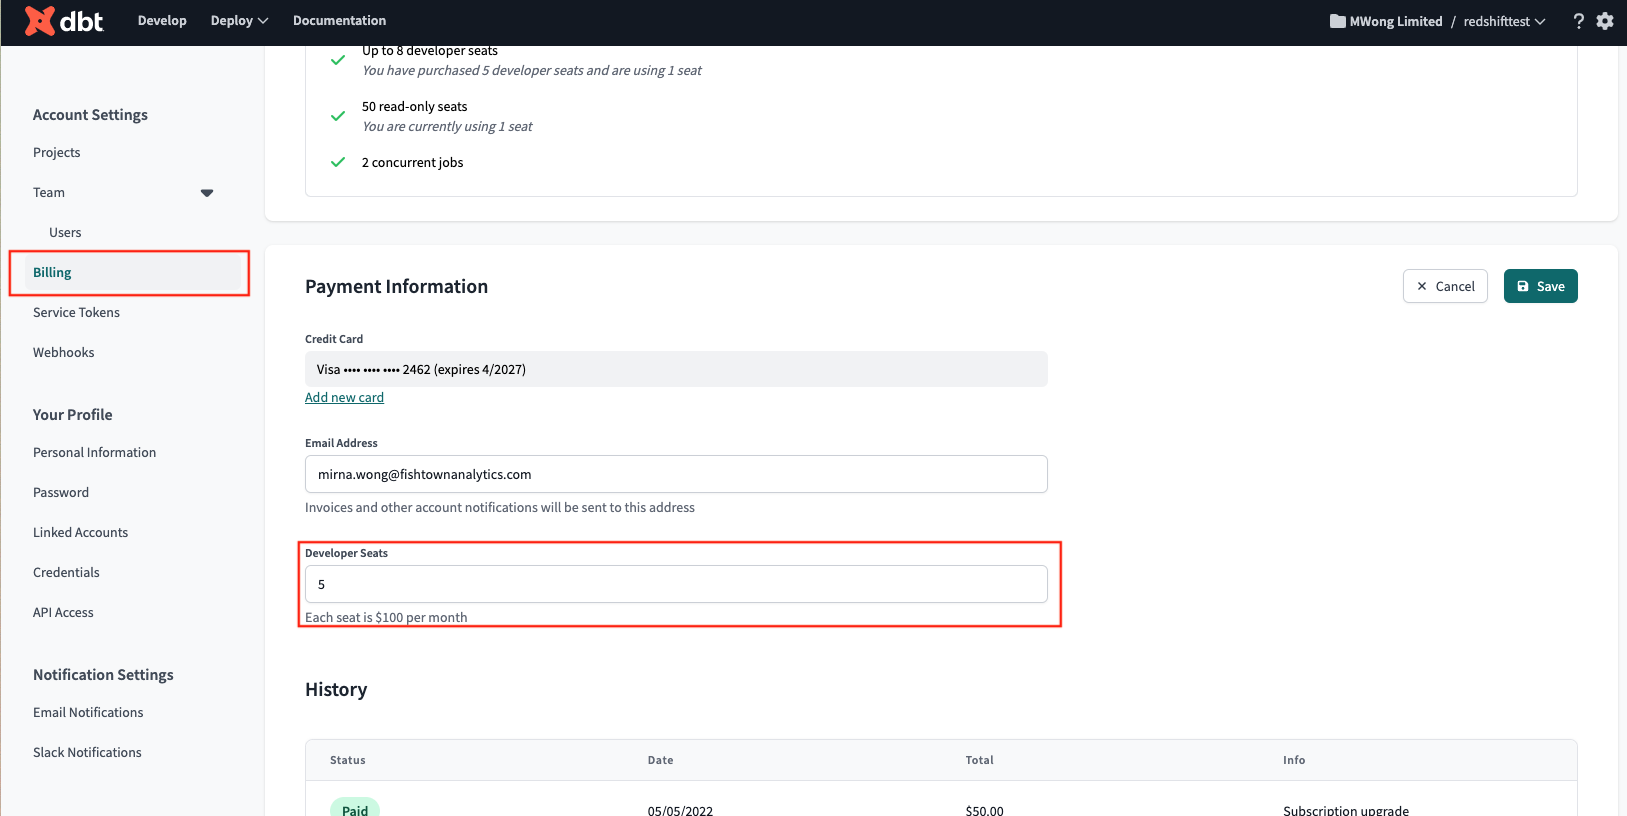
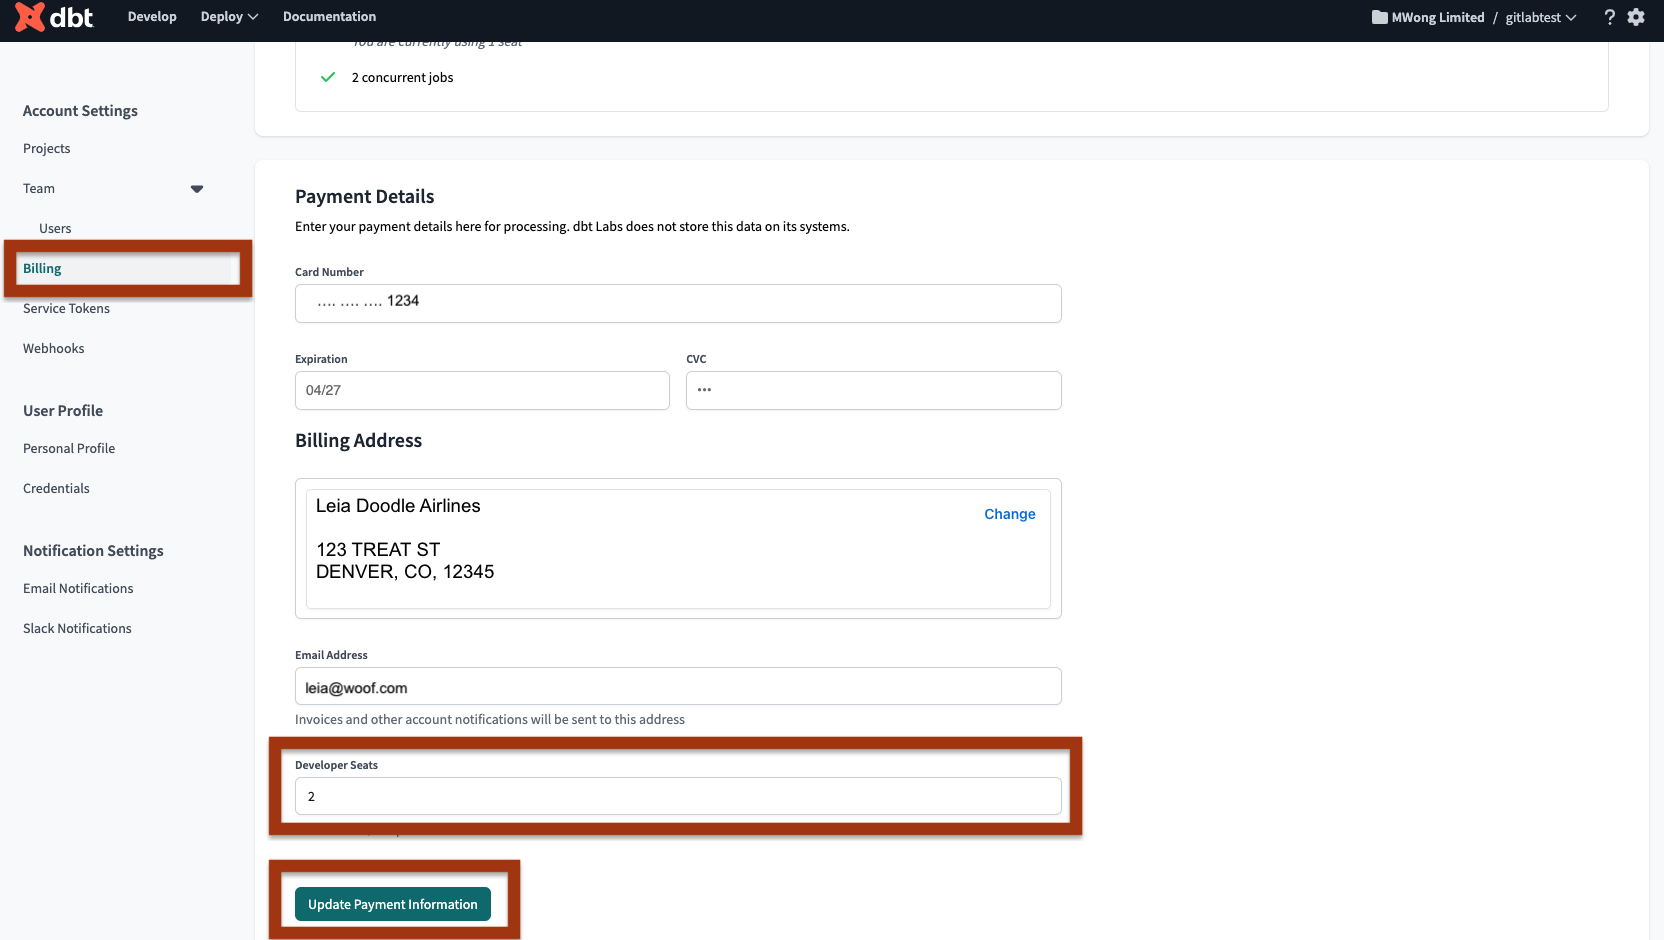
update screenshots

diff --git a/website/docs/faqs/Accounts/delete-users.md b/website/docs/faqs/Accounts/delete-users.md
@@ -10,19 +10,20 @@ To delete a user in dbt Cloud, you must be an account owner or have admin privil
 
 1. From dbt Cloud, click the gear icon at the top right and select **Account Settings**.
 
-<Lightbox src="/img/docs/dbt-cloud/Navigate To Account Settings.png" title="Navigate to account settings" />
+<Lightbox src="/img/docs/dbt-cloud/Navigate To Account Settings.png" width="85%"  title="Navigate to account settings" />
 
 2. In **Account Settings**, select **Users** under **Teams**.
 3. Select the user you want to delete, then click **Edit**. 
 4. Click **Delete** in the bottom left. Click **Confirm Delete** to immediately delete the user without additional password prompts. This action cannot be undone. However, you can re-invite the user with the same information if the deletion was made in error. 
 
-<Lightbox src="/img/docs/dbt-cloud/delete_user_20221023.gif" title="Deleting a user" />
+<Lightbox src="/img/docs/dbt-cloud/delete_user_20221023.gif" width="85%" title="Deleting a user" />
 
 If you are on a **Teams** plan and you are deleting users to reduce the number of billable seats, you also need to take these steps to lower the license count:
 1. In **Account Settings**, select **Billing**. 
-2. Enter the number of developer seats you want and click **Save**.
+2. Enter the number of developer seats you want and make sure you fill in all the payment details, including the **Billing Address** section. Leaving these blank won't allow you to save your changes.
+3. Press **Update Payment Information** to save your changes. 
 
-<Lightbox src="/img/docs/dbt-cloud/change-developer-seats.png" title="Developer seats" />
+<Lightbox src="/img/docs/dbt-cloud/faq-account-settings-billing.jpg" width="85%" title="Navigate to Account Settings -> Users to modify dbt Cloud users" />
 
 ## Related docs
 

diff --git a/website/docs/docs/cloud/manage-access/cloud-seats-and-users.md b/website/docs/docs/cloud/manage-access/cloud-seats-and-users.md
@@ -105,7 +105,7 @@ If you are on a **Teams** plan and you're deleting users to reduce the number of
 2. Enter the number of developer seats you want and make sure you fill in all the payment details, including the **Billing Address** section. Leaving these blank won't allow you to save your changes.
 3. Press **Update Payment Information** to save your changes. 
         
-<Lightbox src="/img/docs/dbt-cloud/change-developer-seats.png" width="85%" title="Developer seats" />
+<Lightbox src="/img/docs/dbt-cloud/faq-account-settings-billing.jpg" width="85%" title="Navigate to Account Settings -> Users to modify dbt Cloud users" />
 
 Great work! After completing these steps, your dbt Cloud user count and billing count should now be the same.
 
